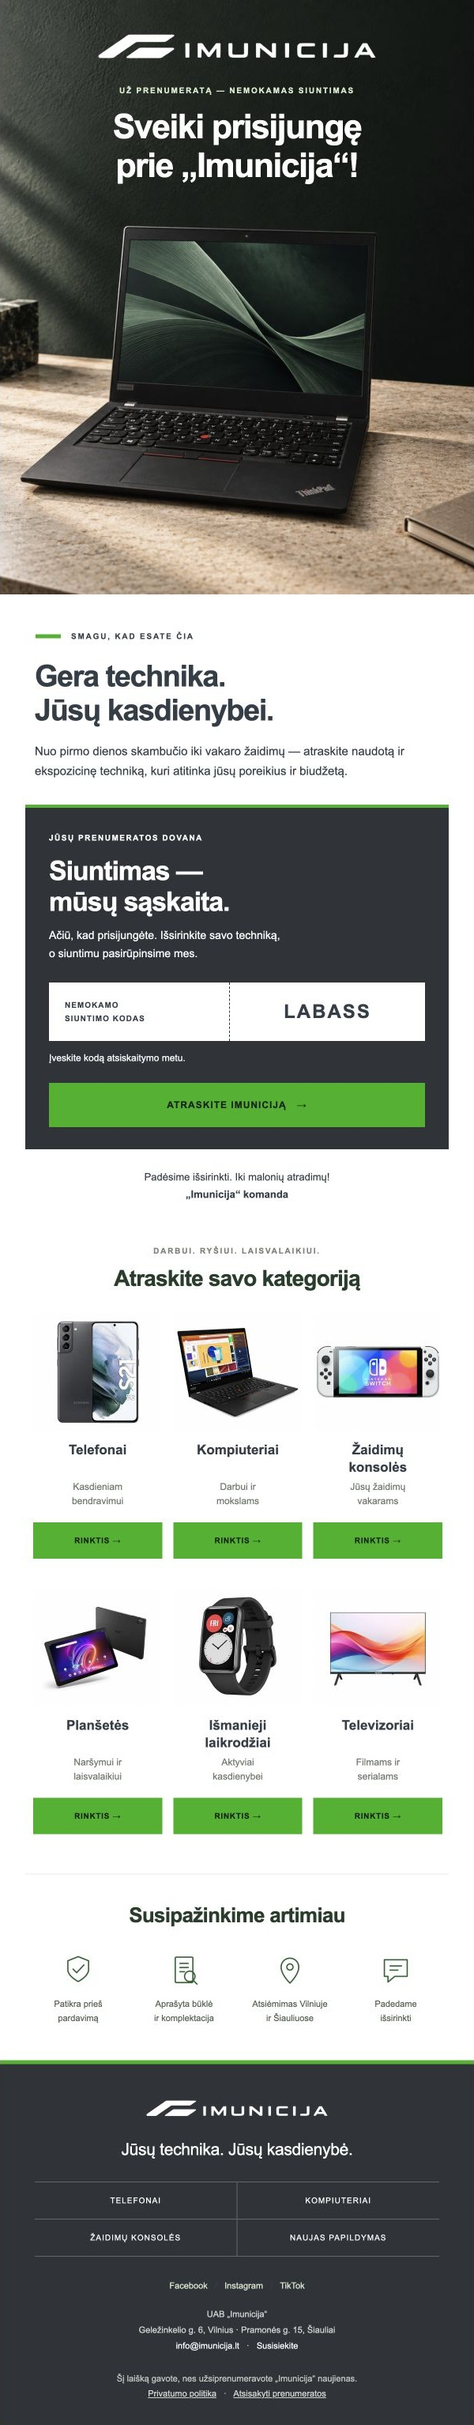
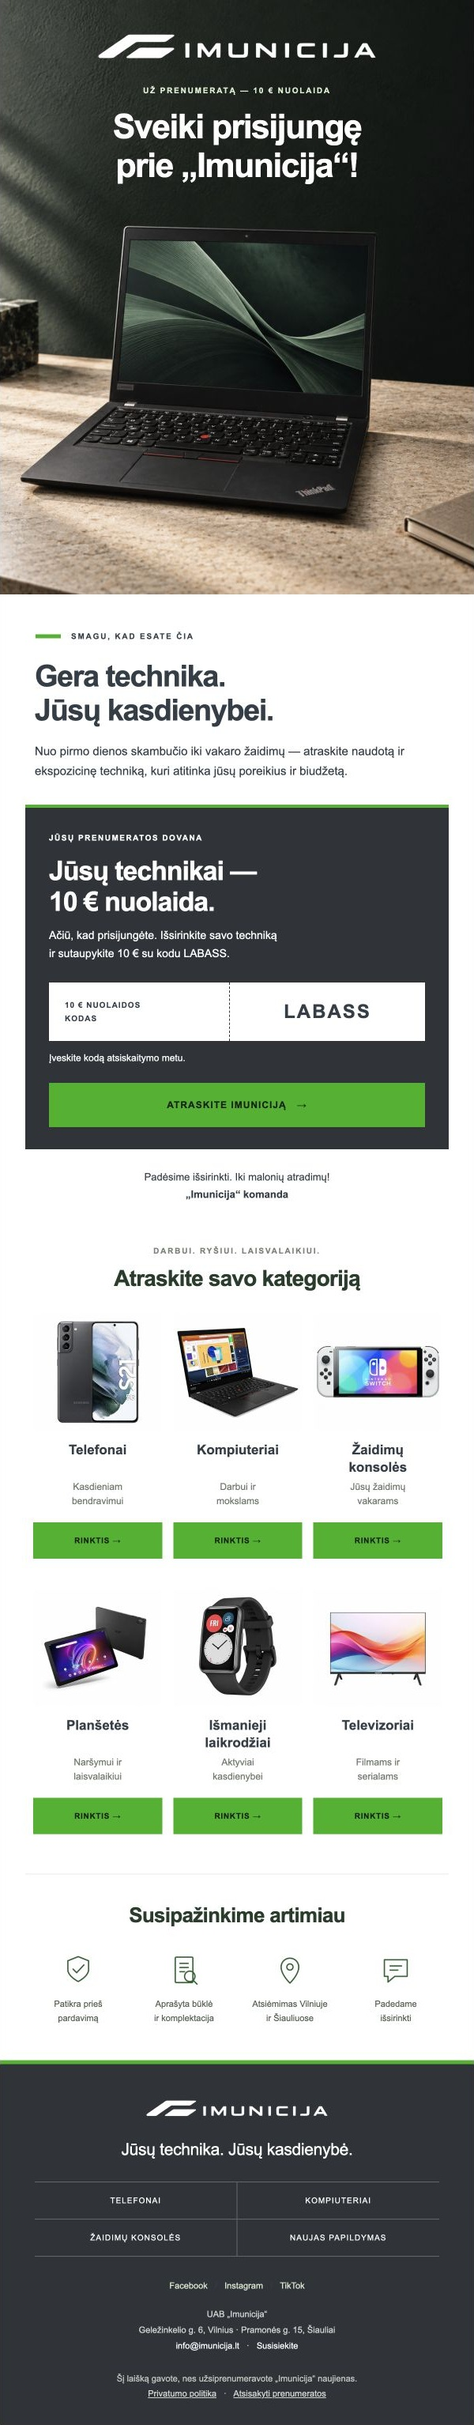
Update welcome email 1: EUR 10 discount and public image URLs

Changed region(s): [[0.09, 0.3406, 0.48, 0.4335]]

diff --git a/imunicija-welcome-email/newsletter.html b/imunicija-welcome-email/newsletter.html
@@ -1,6 +1,6 @@
 <!doctype html>
 <html lang="lt" xmlns:v="urn:schemas-microsoft-com:vml" xmlns:o="urn:schemas-microsoft-com:office:office">
-<head><meta charset="utf-8"><meta name="viewport" content="width=device-width,initial-scale=1"><meta name="x-apple-disable-message-reformatting"><meta name="format-detection" content="telephone=no,date=no,address=no,email=no"><meta name="color-scheme" content="light"><title>Sveiki prisijungę — siuntimas mūsų sąskaita | Imunicija</title>
+<head><meta charset="utf-8"><meta name="viewport" content="width=device-width,initial-scale=1"><meta name="x-apple-disable-message-reformatting"><meta name="format-detection" content="telephone=no,date=no,address=no,email=no"><meta name="color-scheme" content="light"><title>Sveiki prisijungę — jums 10 € nuolaida | Imunicija</title>
 <!--[if mso]><xml><o:OfficeDocumentSettings><o:PixelsPerInch>96</o:PixelsPerInch></o:OfficeDocumentSettings></xml><![endif]-->
 <style>
 ::-webkit-scrollbar{width:0;height:0}body{margin:0!important;padding:0!important;width:100%!important;background:#eceeea}table{border-collapse:collapse;mso-table-lspace:0;mso-table-rspace:0}td{mso-line-height-rule:exactly}img{border:0;outline:none;text-decoration:none;display:block}a{text-decoration:none}p,h1,h2,h3{margin:0}a[x-apple-data-detectors]{color:inherit!important;text-decoration:none!important}.email{width:600px;max-width:600px} .product{vertical-align:top}.mobile-only{display:none}
@@ -12,14 +12,14 @@
 @media screen and (max-width:480px){.hero{background-position:25% center!important}}
 </style></head>
 <body style="margin:0;padding:0;background-color:#eceeea;font-family:Inter,Arial,Helvetica,sans-serif;color:#333e48;">
-<div style="display:none;font-size:1px;line-height:1px;color:#eceeea;max-height:0;max-width:0;opacity:0;overflow:hidden;mso-hide:all;">Ačiū, kad užsiprenumeravote. Jums — nemokamas siuntimas ir technika darbui bei laisvalaikiui.&#8204;&nbsp;&#8204;&nbsp;&#8204;&nbsp;</div>
+<div style="display:none;font-size:1px;line-height:1px;color:#eceeea;max-height:0;max-width:0;opacity:0;overflow:hidden;mso-hide:all;">Ačiū, kad užsiprenumeravote. Jums — 10 € nuolaida technikai darbui bei laisvalaikiui.&#8204;&nbsp;&#8204;&nbsp;&#8204;&nbsp;</div>
 <table role="presentation" width="100%" style="width:100%;background-color:#eceeea;"><tr><td class="outer" align="center" style="padding:0 0 30px;">
 <table role="presentation" width="600" class="email" style="width:600px;max-width:600px;background-color:#ffffff;">
-<tr><td class="hero" width="600" height="750" valign="top" align="center" background="assets/hero-v3.jpg" style="width:600px;height:750px;background-color:#202923;background-image:url('assets/hero-v3.jpg');background-position:center center;background-size:cover;background-repeat:no-repeat;">
-<!--[if gte mso 9]><v:rect fill="true" stroke="false" style="width:600px;height:750px;"><v:fill type="frame" src="assets/hero-v3.jpg" color="#202923"/><v:textbox inset="0,0,0,0"><![endif]-->
+<tr><td class="hero" width="600" height="750" valign="top" align="center" background="https://raw.githubusercontent.com/elaiskai/imunicija/main/imunicija-welcome-email/assets/hero-v3.jpg" style="width:600px;height:750px;background-color:#202923;background-image:url('https://raw.githubusercontent.com/elaiskai/imunicija/main/imunicija-welcome-email/assets/hero-v3.jpg');background-position:center center;background-size:cover;background-repeat:no-repeat;">
+<!--[if gte mso 9]><v:rect fill="true" stroke="false" style="width:600px;height:750px;"><v:fill type="frame" src="https://raw.githubusercontent.com/elaiskai/imunicija/main/imunicija-welcome-email/assets/hero-v3.jpg" color="#202923"/><v:textbox inset="0,0,0,0"><![endif]-->
 <table role="presentation" width="100%"><tr><td class="hero-top" align="center" style="padding:38px 24px 0;">
-<a href="https://imunicija.lt/" target="_blank"><img class="hero-logo" src="assets/brand/logo-white.png" width="360" height="44" alt="IMUNICIJA" style="display:block;width:360px;height:auto;margin:0 auto;"></a>
-<p class="eyebrow hero-eyebrow" style="color:#d8edce;font-size:10px;line-height:16px;font-weight:700;letter-spacing:1.8px;padding:24px 0 13px;">UŽ PRENUMERATĄ — NEMOKAMAS SIUNTIMAS</p>
+<a href="https://imunicija.lt/" target="_blank"><img class="hero-logo" src="https://raw.githubusercontent.com/elaiskai/imunicija/main/imunicija-welcome-email/assets/brand/logo-white.png" width="360" height="44" alt="IMUNICIJA" style="display:block;width:360px;height:auto;margin:0 auto;"></a>
+<p class="eyebrow hero-eyebrow" style="color:#d8edce;font-size:10px;line-height:16px;font-weight:700;letter-spacing:1.8px;padding:24px 0 13px;">UŽ PRENUMERATĄ — 10 € NUOLAIDA</p>
 <h1 class="hero-title" style="font-family:Inter,Arial,Helvetica,sans-serif;font-size:43px;line-height:49px;font-weight:700;letter-spacing:-1.6px;color:#ffffff;">Sveiki prisijungę<br>prie „Imunicija“!</h1>
 <a href="https://imunicija.lt/" class="hero-link" aria-label="Atraskite Imunicija elektroniką" style="display:block;height:400px;line-height:400px;font-size:0;color:transparent;">&nbsp;</a>
 </td></tr></table>
@@ -33,10 +33,10 @@
 <tr><td class="welcome-card-wrap" style="padding:0 32px;">
 <table role="presentation" width="100%" bgcolor="#2f3338" style="background:#2f3338;border-top:4px solid #20b200;"><tr><td class="welcome-card" style="padding:30px 30px 28px;">
 <p style="font-size:10px;line-height:16px;letter-spacing:1.5px;font-weight:600;color:#ffffff;margin:0 0 14px;">JŪSŲ PRENUMERATOS DOVANA</p>
-<h2 class="shipping-title" style="font-family:Inter,Arial,Helvetica,sans-serif;font-size:34px;line-height:39px;letter-spacing:-1.1px;font-weight:700;color:#ffffff;margin:0 0 12px;">Siuntimas —<br>mūsų sąskaita.</h2>
-<p style="font-size:14px;line-height:23px;color:#ffffff;margin:0 0 25px;">Ačiū, kad prisijungėte. Išsirinkite savo techniką,<br class="desktop-break"> o siuntimu pasirūpinsime mes.</p>
+<h2 class="shipping-title" style="font-family:Inter,Arial,Helvetica,sans-serif;font-size:34px;line-height:39px;letter-spacing:-1.1px;font-weight:700;color:#ffffff;margin:0 0 12px;">Jūsų technikai —<br>10 € nuolaida.</h2>
+<p style="font-size:14px;line-height:23px;color:#ffffff;margin:0 0 25px;">Ačiū, kad prisijungėte. Išsirinkite savo techniką<br class="desktop-break"> ir sutaupykite 10 € su kodu LABASS.</p>
 <table role="presentation" width="100%" bgcolor="#ffffff" style="background:#ffffff;"><tr>
-<td class="coupon-caption" width="48%" valign="middle" style="width:48%;padding:20px;font-size:10px;line-height:17px;letter-spacing:1px;font-weight:700;color:#333e48;">NEMOKAMO<br>SIUNTIMO KODAS</td>
+<td class="coupon-caption" width="48%" valign="middle" style="width:48%;padding:20px;font-size:10px;line-height:17px;letter-spacing:1px;font-weight:700;color:#333e48;">10 € NUOLAIDOS<br>KODAS</td>
 <td class="coupon-value" width="52%" align="center" valign="middle" style="width:52%;padding:20px 12px;border-left:1px dashed #2f3338;">
 <!-- User-provided shipping code; store coupon configuration is managed separately. -->
 <p style="font-family:Inter,Arial,Helvetica,sans-serif;font-size:24px;line-height:30px;letter-spacing:2px;font-weight:700;color:#333e48;margin:0;">LABASS</p>
@@ -51,35 +51,35 @@
 <h2 class="section-title" style="font-size:28px;line-height:35px;color:#253c29;font-weight:700;letter-spacing:-.8px;">Atraskite savo kategoriją</h2>
 <table role="presentation" width="100%" style="margin-top:26px;"><tr>
 <td class="product" width="33.33%" align="center" style="width:33.33%;padding:0 7px;">
-<table class="product-inner" role="presentation" width="100%"><tr><td class="product-picture" style="display:block;width:100%;"><a href="https://imunicija.lt/produkto-kategorija/telefonai/"><img class="product-img" src="assets/products/samsung-s21.jpg" width="163" height="148" alt="Telefonai — pavyzdys: Samsung Galaxy S21 5G" style="width:163px;height:148px;max-width:100%;margin:0 auto;"></a></td></tr><tr><td class="product-details" align="center" style="display:block;width:100%;padding-top:12px;">
+<table class="product-inner" role="presentation" width="100%"><tr><td class="product-picture" style="display:block;width:100%;"><a href="https://imunicija.lt/produkto-kategorija/telefonai/"><img class="product-img" src="https://raw.githubusercontent.com/elaiskai/imunicija/main/imunicija-welcome-email/assets/products/samsung-s21.jpg" width="163" height="148" alt="Telefonai — pavyzdys: Samsung Galaxy S21 5G" style="width:163px;height:148px;max-width:100%;margin:0 auto;"></a></td></tr><tr><td class="product-details" align="center" style="display:block;width:100%;padding-top:12px;">
 <h3 class="product-name" style="height:44px;font-size:17px;line-height:22px;font-weight:700;color:#333e48;">Telefonai</h3><p style="font-size:12px;line-height:18px;color:#6d786b;margin-top:5px;">Kasdieniam<br>bendravimui</p><a class="product-link" href="https://imunicija.lt/produkto-kategorija/telefonai/" style="display:block;text-align:center;margin-top:18px;padding:15px 10px;border:1px solid #20b200;background:#20b200;font-size:10px;line-height:14px;letter-spacing:.7px;font-weight:700;color:#10210d;">RINKTIS →</a></td></tr></table></td>
 <td class="product" width="33.33%" align="center" style="width:33.33%;padding:0 7px;">
-<table class="product-inner" role="presentation" width="100%"><tr><td class="product-picture" style="display:block;width:100%;"><a href="https://imunicija.lt/produkto-kategorija/kompiuteriai/"><img class="product-img" src="assets/products/lenovo-x13.jpg" width="163" height="148" alt="Kompiuteriai — pavyzdys: Lenovo ThinkPad X13 Gen 1" style="width:163px;height:148px;max-width:100%;margin:0 auto;"></a></td></tr><tr><td class="product-details" align="center" style="display:block;width:100%;padding-top:12px;">
+<table class="product-inner" role="presentation" width="100%"><tr><td class="product-picture" style="display:block;width:100%;"><a href="https://imunicija.lt/produkto-kategorija/kompiuteriai/"><img class="product-img" src="https://raw.githubusercontent.com/elaiskai/imunicija/main/imunicija-welcome-email/assets/products/lenovo-x13.jpg" width="163" height="148" alt="Kompiuteriai — pavyzdys: Lenovo ThinkPad X13 Gen 1" style="width:163px;height:148px;max-width:100%;margin:0 auto;"></a></td></tr><tr><td class="product-details" align="center" style="display:block;width:100%;padding-top:12px;">
 <h3 class="product-name" style="height:44px;font-size:17px;line-height:22px;font-weight:700;color:#333e48;">Kompiuteriai</h3><p style="font-size:12px;line-height:18px;color:#6d786b;margin-top:5px;">Darbui ir<br>mokslams</p><a class="product-link" href="https://imunicija.lt/produkto-kategorija/kompiuteriai/" style="display:block;text-align:center;margin-top:18px;padding:15px 10px;border:1px solid #20b200;background:#20b200;font-size:10px;line-height:14px;letter-spacing:.7px;font-weight:700;color:#10210d;">RINKTIS →</a></td></tr></table></td>
 <td class="product" width="33.33%" align="center" style="width:33.33%;padding:0 7px;">
-<table class="product-inner" role="presentation" width="100%"><tr><td class="product-picture" style="display:block;width:100%;"><a href="https://imunicija.lt/produkto-kategorija/konsoles/"><img class="product-img" src="assets/products/nintendo-switch.jpg" width="163" height="148" alt="Žaidimų konsolės — pavyzdys: Nintendo Switch OLED" style="width:163px;height:148px;max-width:100%;margin:0 auto;"></a></td></tr><tr><td class="product-details" align="center" style="display:block;width:100%;padding-top:12px;">
+<table class="product-inner" role="presentation" width="100%"><tr><td class="product-picture" style="display:block;width:100%;"><a href="https://imunicija.lt/produkto-kategorija/konsoles/"><img class="product-img" src="https://raw.githubusercontent.com/elaiskai/imunicija/main/imunicija-welcome-email/assets/products/nintendo-switch.jpg" width="163" height="148" alt="Žaidimų konsolės — pavyzdys: Nintendo Switch OLED" style="width:163px;height:148px;max-width:100%;margin:0 auto;"></a></td></tr><tr><td class="product-details" align="center" style="display:block;width:100%;padding-top:12px;">
 <h3 class="product-name" style="height:44px;font-size:17px;line-height:22px;font-weight:700;color:#333e48;">Žaidimų<br>konsolės</h3><p style="font-size:12px;line-height:18px;color:#6d786b;margin-top:5px;">Jūsų žaidimų<br>vakarams</p><a class="product-link" href="https://imunicija.lt/produkto-kategorija/konsoles/" style="display:block;text-align:center;margin-top:18px;padding:15px 10px;border:1px solid #20b200;background:#20b200;font-size:10px;line-height:14px;letter-spacing:.7px;font-weight:700;color:#10210d;">RINKTIS →</a></td></tr></table></td>
 </tr><tr class="product-row-gap"><td colspan="3" height="34" style="height:34px;font-size:0;line-height:0;">&nbsp;</td></tr><tr>
 <td class="product" width="33.33%" align="center" style="width:33.33%;padding:0 7px;">
-<table class="product-inner" role="presentation" width="100%"><tr><td class="product-picture" style="display:block;width:100%;"><a href="https://imunicija.lt/produkto-kategorija/plansetes/"><img class="product-img" src="assets/products/acer-iconia.jpg" width="163" height="148" alt="Planšetės — pavyzdys: Acer Iconia P10" style="width:163px;height:148px;max-width:100%;margin:0 auto;"></a></td></tr><tr><td class="product-details" align="center" style="display:block;width:100%;padding-top:12px;">
+<table class="product-inner" role="presentation" width="100%"><tr><td class="product-picture" style="display:block;width:100%;"><a href="https://imunicija.lt/produkto-kategorija/plansetes/"><img class="product-img" src="https://raw.githubusercontent.com/elaiskai/imunicija/main/imunicija-welcome-email/assets/products/acer-iconia.jpg" width="163" height="148" alt="Planšetės — pavyzdys: Acer Iconia P10" style="width:163px;height:148px;max-width:100%;margin:0 auto;"></a></td></tr><tr><td class="product-details" align="center" style="display:block;width:100%;padding-top:12px;">
 <h3 class="product-name" style="height:44px;font-size:17px;line-height:22px;font-weight:700;color:#333e48;">Planšetės</h3><p style="font-size:12px;line-height:18px;color:#6d786b;margin-top:5px;">Naršymui ir<br>laisvalaikiui</p><a class="product-link" href="https://imunicija.lt/produkto-kategorija/plansetes/" style="display:block;text-align:center;margin-top:18px;padding:15px 10px;border:1px solid #20b200;background:#20b200;font-size:10px;line-height:14px;letter-spacing:.7px;font-weight:700;color:#10210d;">RINKTIS →</a></td></tr></table></td>
 <td class="product" width="33.33%" align="center" style="width:33.33%;padding:0 7px;">
-<table class="product-inner" role="presentation" width="100%"><tr><td class="product-picture" style="display:block;width:100%;"><a href="https://imunicija.lt/produkto-kategorija/laikrodziai/"><img class="product-img" src="assets/products/huawei-fit-se.jpg" width="163" height="148" alt="Išmanieji laikrodžiai — pavyzdys: Huawei Watch FIT SE" style="width:163px;height:148px;max-width:100%;margin:0 auto;"></a></td></tr><tr><td class="product-details" align="center" style="display:block;width:100%;padding-top:12px;">
+<table class="product-inner" role="presentation" width="100%"><tr><td class="product-picture" style="display:block;width:100%;"><a href="https://imunicija.lt/produkto-kategorija/laikrodziai/"><img class="product-img" src="https://raw.githubusercontent.com/elaiskai/imunicija/main/imunicija-welcome-email/assets/products/huawei-fit-se.jpg" width="163" height="148" alt="Išmanieji laikrodžiai — pavyzdys: Huawei Watch FIT SE" style="width:163px;height:148px;max-width:100%;margin:0 auto;"></a></td></tr><tr><td class="product-details" align="center" style="display:block;width:100%;padding-top:12px;">
 <h3 class="product-name" style="height:44px;font-size:17px;line-height:22px;font-weight:700;color:#333e48;">Išmanieji<br>laikrodžiai</h3><p style="font-size:12px;line-height:18px;color:#6d786b;margin-top:5px;">Aktyviai<br>kasdienybei</p><a class="product-link" href="https://imunicija.lt/produkto-kategorija/laikrodziai/" style="display:block;text-align:center;margin-top:18px;padding:15px 10px;border:1px solid #20b200;background:#20b200;font-size:10px;line-height:14px;letter-spacing:.7px;font-weight:700;color:#10210d;">RINKTIS →</a></td></tr></table></td>
 <td class="product" width="33.33%" align="center" style="width:33.33%;padding:0 7px;">
-<table class="product-inner" role="presentation" width="100%"><tr><td class="product-picture" style="display:block;width:100%;"><a href="https://imunicija.lt/produkto-kategorija/vaizdo-technika/televizoriai/"><img class="product-img" src="assets/products/konka-tv.jpg" width="163" height="148" alt="Televizoriai — pavyzdys: KONKA KDG32YR682ANTS" style="width:163px;height:148px;max-width:100%;margin:0 auto;"></a></td></tr><tr><td class="product-details" align="center" style="display:block;width:100%;padding-top:12px;">
+<table class="product-inner" role="presentation" width="100%"><tr><td class="product-picture" style="display:block;width:100%;"><a href="https://imunicija.lt/produkto-kategorija/vaizdo-technika/televizoriai/"><img class="product-img" src="https://raw.githubusercontent.com/elaiskai/imunicija/main/imunicija-welcome-email/assets/products/konka-tv.jpg" width="163" height="148" alt="Televizoriai — pavyzdys: KONKA KDG32YR682ANTS" style="width:163px;height:148px;max-width:100%;margin:0 auto;"></a></td></tr><tr><td class="product-details" align="center" style="display:block;width:100%;padding-top:12px;">
 <h3 class="product-name" style="height:44px;font-size:17px;line-height:22px;font-weight:700;color:#333e48;">Televizoriai</h3><p style="font-size:12px;line-height:18px;color:#6d786b;margin-top:5px;">Filmams ir<br>serialams</p><a class="product-link" href="https://imunicija.lt/produkto-kategorija/vaizdo-technika/televizoriai/" style="display:block;text-align:center;margin-top:18px;padding:15px 10px;border:1px solid #20b200;background:#20b200;font-size:10px;line-height:14px;letter-spacing:.7px;font-weight:700;color:#10210d;">RINKTIS →</a></td></tr></table></td>
 </tr></table></td></tr>
 <tr><td class="pad" align="center" style="padding:49px 32px 43px;">
 <table role="presentation" width="100%"><tr><td style="border-top:1px solid #e8ece5;padding-top:35px;" align="center"><h2 class="section-title" style="font-size:26px;line-height:33px;color:#253c29;font-weight:700;letter-spacing:-.7px;">Susipažinkime artimiau</h2></td></tr></table>
 <table role="presentation" class="proof-table" width="100%" style="margin-top:30px;"><tr>
-<td class="proof-cell" width="25%" align="center" valign="top"><a href="https://imunicija.lt/garantija-ir-grazinimas/"><img src="assets/brand/check.png" width="42" height="42" alt="Patikros ženklas" style="margin:0 auto 13px;"></a><p class="proof-label" style="font-size:11px;line-height:18px;color:#53604f;">Patikra prieš<br>pardavimą</p></td>
-<td class="proof-cell" width="25%" align="center" valign="top"><a href="https://imunicija.lt/produkto-kategorija/ekspozicines-prekes/"><img src="assets/brand/details.png" width="42" height="42" alt="Prekės aprašymas" style="margin:0 auto 13px;"></a><p class="proof-label" style="font-size:11px;line-height:18px;color:#53604f;">Aprašyta būklė<br>ir komplektacija</p></td>
-<td class="proof-cell" width="25%" align="center" valign="top"><a href="https://imunicija.lt/musu-adresai/"><img src="assets/brand/pin.png" width="42" height="42" alt="Atsiėmimo vieta" style="margin:0 auto 13px;"></a><p class="proof-label" style="font-size:11px;line-height:18px;color:#53604f;">Atsiėmimas Vilniuje<br>ir Šiauliuose</p></td>
-<td class="proof-cell" width="25%" align="center" valign="top"><a href="https://imunicija.lt/kontaktai/"><img src="assets/brand/chat.png" width="42" height="42" alt="Konsultacija" style="margin:0 auto 13px;"></a><p class="proof-label" style="font-size:11px;line-height:18px;color:#53604f;">Padedame<br>išsirinkti</p></td>
+<td class="proof-cell" width="25%" align="center" valign="top"><a href="https://imunicija.lt/garantija-ir-grazinimas/"><img src="https://raw.githubusercontent.com/elaiskai/imunicija/main/imunicija-welcome-email/assets/brand/check.png" width="42" height="42" alt="Patikros ženklas" style="margin:0 auto 13px;"></a><p class="proof-label" style="font-size:11px;line-height:18px;color:#53604f;">Patikra prieš<br>pardavimą</p></td>
+<td class="proof-cell" width="25%" align="center" valign="top"><a href="https://imunicija.lt/produkto-kategorija/ekspozicines-prekes/"><img src="https://raw.githubusercontent.com/elaiskai/imunicija/main/imunicija-welcome-email/assets/brand/details.png" width="42" height="42" alt="Prekės aprašymas" style="margin:0 auto 13px;"></a><p class="proof-label" style="font-size:11px;line-height:18px;color:#53604f;">Aprašyta būklė<br>ir komplektacija</p></td>
+<td class="proof-cell" width="25%" align="center" valign="top"><a href="https://imunicija.lt/musu-adresai/"><img src="https://raw.githubusercontent.com/elaiskai/imunicija/main/imunicija-welcome-email/assets/brand/pin.png" width="42" height="42" alt="Atsiėmimo vieta" style="margin:0 auto 13px;"></a><p class="proof-label" style="font-size:11px;line-height:18px;color:#53604f;">Atsiėmimas Vilniuje<br>ir Šiauliuose</p></td>
+<td class="proof-cell" width="25%" align="center" valign="top"><a href="https://imunicija.lt/kontaktai/"><img src="https://raw.githubusercontent.com/elaiskai/imunicija/main/imunicija-welcome-email/assets/brand/chat.png" width="42" height="42" alt="Konsultacija" style="margin:0 auto 13px;"></a><p class="proof-label" style="font-size:11px;line-height:18px;color:#53604f;">Padedame<br>išsirinkti</p></td>
 </tr></table></td></tr>
 <tr><td class="foot-pad" bgcolor="#2f3338" align="center" style="background:#2f3338;padding:43px 44px 30px;border-top:5px solid #20b200;">
-<a href="https://imunicija.lt/"><img src="assets/brand/logo-white.png" width="235" height="28" alt="IMUNICIJA" style="width:235px;height:auto;margin:0 auto;"></a>
+<a href="https://imunicija.lt/"><img src="https://raw.githubusercontent.com/elaiskai/imunicija/main/imunicija-welcome-email/assets/brand/logo-white.png" width="235" height="28" alt="IMUNICIJA" style="width:235px;height:auto;margin:0 auto;"></a>
 <p class="footer-tag" style="font-size:21px;line-height:29px;font-weight:500;letter-spacing:-.3px;color:#ffffff;margin:22px 0 26px;">Jūsų technika. Jūsų kasdienybė.</p>
 <table role="presentation" width="100%" style="border-top:1px solid #616862;">
 <tr><td width="50%" align="center" style="border-bottom:1px solid #616862;border-right:1px solid #616862;"><a href="https://imunicija.lt/produkto-kategorija/telefonai/" style="display:block;padding:15px 5px;font-size:10px;line-height:14px;letter-spacing:1px;color:#ffffff;">TELEFONAI</a></td><td width="50%" align="center" style="border-bottom:1px solid #616862;"><a href="https://imunicija.lt/produkto-kategorija/kompiuteriai/" style="display:block;padding:15px 5px;font-size:10px;line-height:14px;letter-spacing:1px;color:#ffffff;">KOMPIUTERIAI</a></td></tr>

diff --git a/imunicija-welcome-email/BRAND_NOTES.md b/imunicija-welcome-email/BRAND_NOTES.md
@@ -1,3 +1,6 @@
+## Aktualus pasiūlymas — 2026-09-17
+Visuose šios serijos laiškuose taikoma 10 € nuolaida su kodu LABASS. Ši vartotojo patvirtinta suma pakeičia ankstesnį nemokamo pristatymo pasiūlymą; žemiau esantys įrašai apie jį yra istoriniai. Minimali užsakymo suma ir galiojimo terminas nenurodyti. Keičiamas laiškų turinys; parduotuvės nuolaidos nustatymai šiuo veiksmu nekeičiami.
+
 # IMUNICIJA — Welcome 01: nemokamas siuntimas
 
 Sukurta: 2026-09-10. Kalba: lietuvių. Paskirtis: pirmasis prenumeratoriaus „Welcome“ laiškas, paruoštas peržiūrai ir perkėlimui į Omnisend. Aktyvi automatizacija paskyroje nekurta.
@@ -172,3 +175,7 @@ Promptas:
 Use case: product-mockup. Create a new high-end editorial product campaign photograph for Imunicija electronics. The first reference is the exact product identity and shape to preserve; second reference is ONLY the approved photographic art direction, not a composition to duplicate. Photorealistic premium product photoshoot, understated art direction, true material texture, sophisticated soft window light, deep charcoal with a subtle forest-green undertone, restrained warm neutrals, crisp plausible hardware, honest reflections and contact shadows. No people. No retailer watermark, no added text, no promotional typography, no logo overlays. Preserve authentic manufacturer markings where visible. Portrait 4:5 composition. CRITICAL newsletter composition: the entire upper 42% is a nearly black charcoal green wall with subtle texture, no objects and no bright spots, reserved for HTML white logo/headline. Hero product entirely in lower 48%-87%, within central 66% of image width to survive narrow mobile crop. Product must be recognisable, physically accurate, not floating. Avoid CGI showroom perfection, fake glow, fog, oversaturated green, strange perspective, extra buttons or distorted keyboard/controls. Scene for welcome email 01: one black Lenovo ThinkPad X13 open on a pale warm limestone work surface in a quiet architect-designed study. Camera directly in front with a subtle three-quarter angle, laptop centrally framed, elegant lower-angle product portrait distinct from the reference's diagonal oak desk. Screen with a subtle dark green abstract wallpaper, no legible software UI. Low raking daylight from the left, fine natural limestone grain, gentle highlights along black edges, deep forest charcoal wall above. Only a thin closed unbranded notebook partially visible at the far lower right, outside the product footprint. No cup. Keep exact recognizable ThinkPad chassis, keyboard geometry, red TrackPoint, and screen bezel proportions. Expensive real advertising photograph on a medium format camera, restrained believable texture.
 
 Hero atnaujinimo QA: desktop ir 390 px mobile vaizdai peržiūrėti su tikru logotipu ir HTML tekstu. Mobilus background-position koreguotas į 25% center, kad būtų išlaikytas produktas kadre. JPG/PNG peržiūros ir ZIP atnaujinti; turinys ir LABASS kodas išliko.
+
+2026-09-17 QA: visų trijų laiškų 10 € pasiūlymai ir LABASS kodas patikrinti desktop ir mobile vaizduose. HTML/TXT atitinka, paveikslėliai užkrauti, persipildymo nėra. JPG/PNG ir ZIP atnaujinti.
+
+2026-09-17 GitHub versija: newsletter.html paveikslėlių src, hero background ir Outlook VML src naudoja viešus raw.githubusercontent.com/elaiskai/imunicija/main HTTPS URL. Aktuali dovana — 10 € nuolaida, LABASS.
